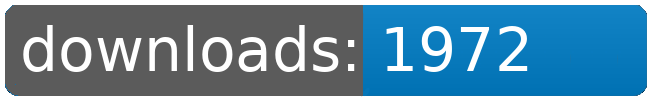
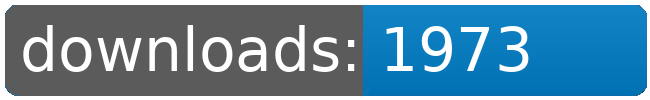
dl log written

Changed region(s): [[0.7692, 0.42, 0.8308, 0.72], [0.7692, 0.27, 0.8308, 0.39]]

diff --git a/README.md b/README.md
@@ -21,8 +21,8 @@
 		<td>1897</td>
 		<td>1925</td>
 		<td>1950</td>
-		<td>1972</td>
-		<td>+ 22</td>
+		<td>1973</td>
+		<td>+ 23</td>
 	</tr>
 	<tr>
 		<td>Factory.Outlets</td>
@@ -87,8 +87,8 @@
 		<td>1873</td>
 		<td>1901</td>
 		<td>1927</td>
-		<td>1948</td>
-		<td>+ 21</td>
+		<td>1949</td>
+		<td>+ 22</td>
 	</tr>
 	<tr>
 		<td>Zone.of.Control</td>
@@ -109,8 +109,8 @@
 		<td></td>
 		<td></td>
 		<td></td>
-		<td>16199</td>
-		<td>179</td>
+		<td>16201</td>
+		<td>181</td>
 	</tr>
 </table>
 </sub></sup>
@@ -157,8 +157,8 @@
 		<td>1897</td>
 		<td>1925</td>
 		<td>1950</td>
-		<td>1972</td>
-		<td>+ 22</td>
+		<td>1973</td>
+		<td>+ 23</td>
 	</tr>
 	<tr>
 		<td>Korunak.Defense.Drones</td>
@@ -179,8 +179,8 @@
 		<td>1873</td>
 		<td>1901</td>
 		<td>1927</td>
-		<td>1948</td>
-		<td>+ 21</td>
+		<td>1949</td>
+		<td>+ 22</td>
 	</tr>
 	<tr>
 		<td>Factory.Outlets</td>
@@ -223,8 +223,8 @@
 		<td></td>
 		<td></td>
 		<td></td>
-		<td>16199</td>
-		<td>179</td>
+		<td>16201</td>
+		<td>181</td>
 	</tr>
 </table>
 </sub></sup>
